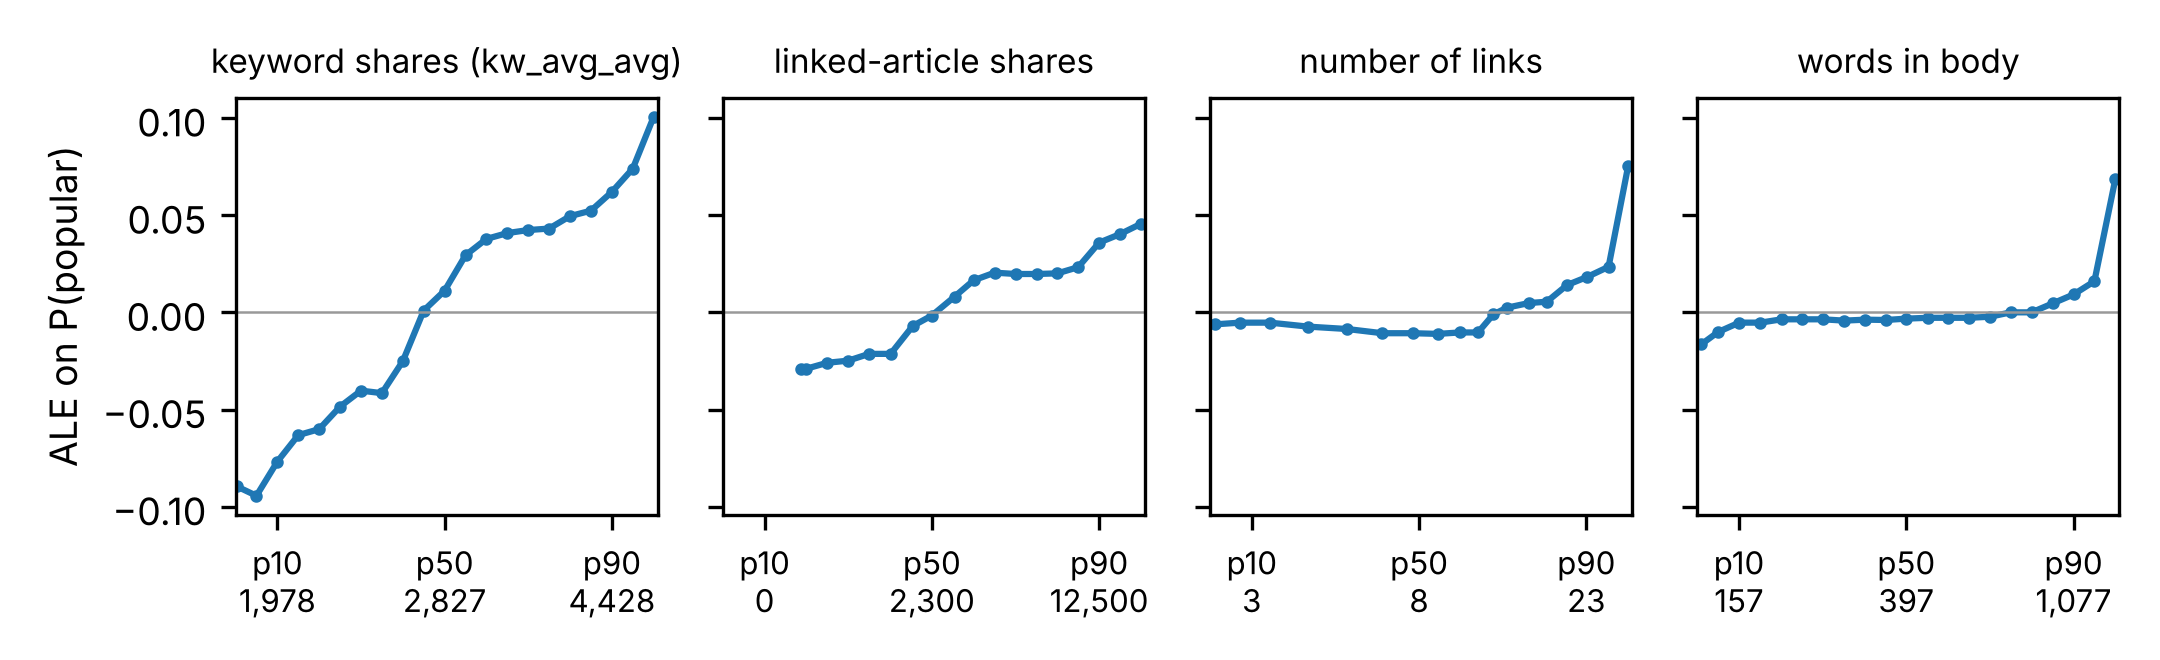
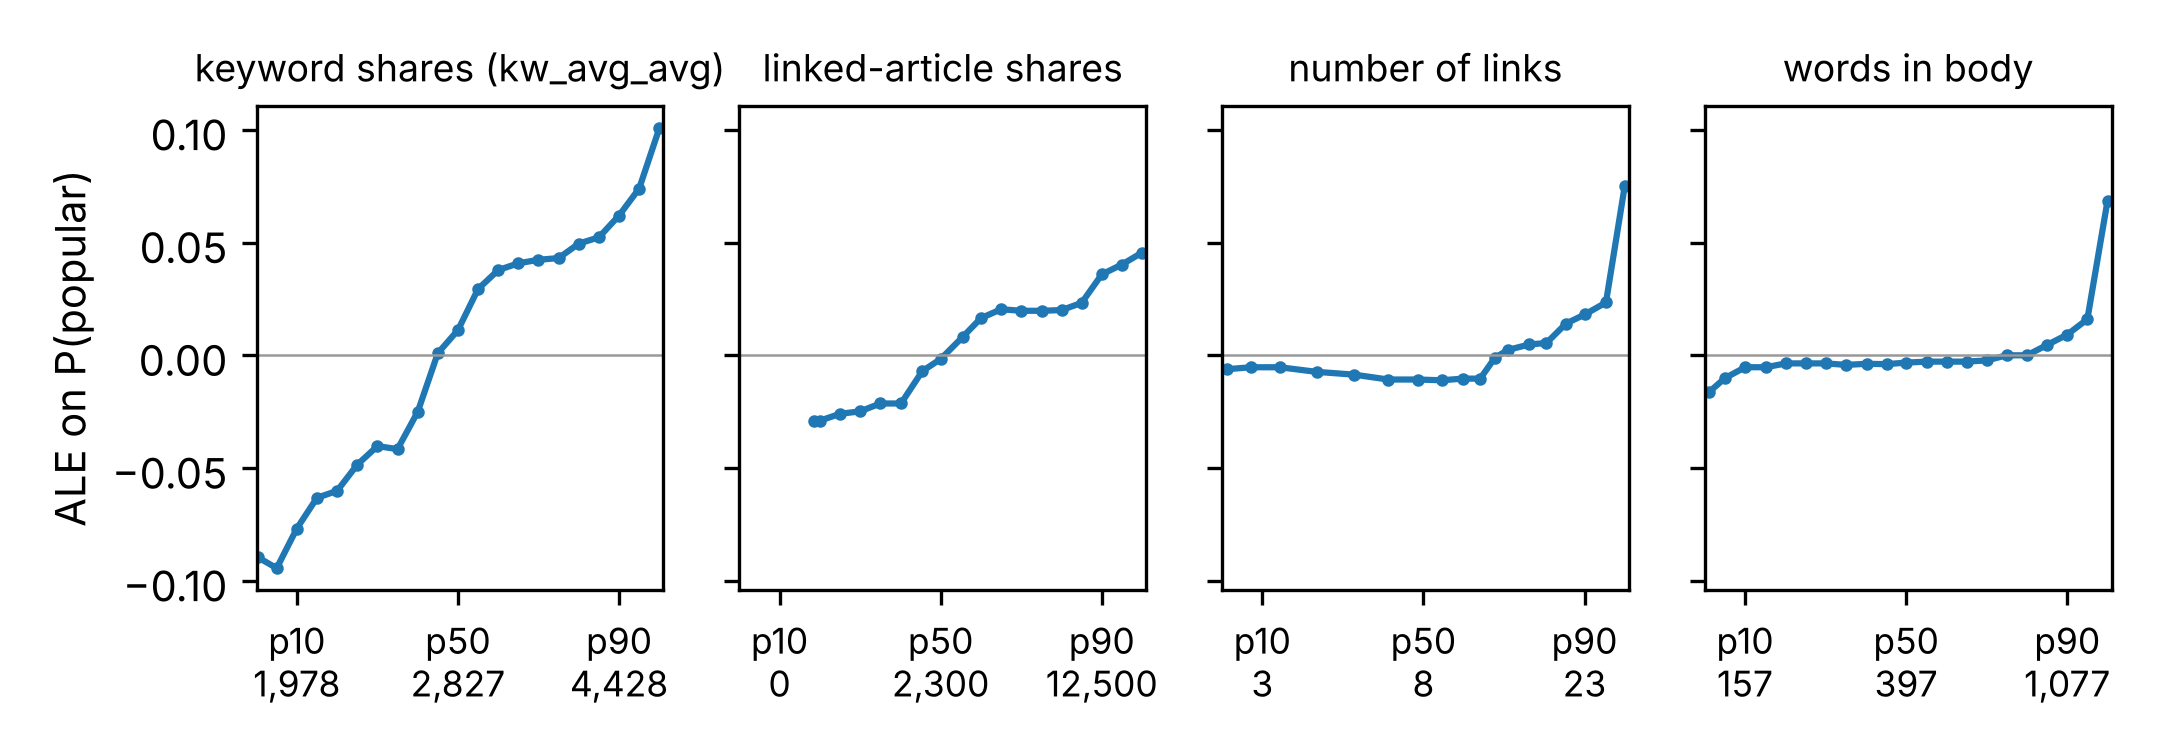
Review round 4: calibrated wording, per-fold sampling error, RQ1 phrasing, larger figures (#23)
- Abstract/RQ2: keyword statistics alone cost 0.016; gains "likely optimistic" instead of "upper bound"
- RQ1: period sd 0.017 vs weekly block-bootstrap SE 0.008 per fold (sd CI 0.010-0.049); staleness is an upper bound
- RQ1 reworded to match what can be identified; Related Work compressed; Fig 3/4 fonts enlarged

Claude-Session: https://claude.ai/code/session_01TCfNdN2Zn6ui1ME3kdmCGP

diff --git a/report/main.tex b/report/main.tex
@@ -19,11 +19,12 @@ Label Reliability, Temporal Drift and Point-in-Time Features in Online News Popu
 Online news popularity is usually predicted as a binary label (``at least 1{,}400 shares'') and evaluated
 on a random split. Using 39{,}643 Mashable articles from 2013--2014, we ask how far that set-up can be trusted,
 and report three findings. First, ranking quality survives a chronological split (ROC-AUC 0.74, with random
-forest and gradient boosting tied), but it varies far more between time periods than between random seeds;
-a later drop in AUC comes from harder articles, not from an outdated model, since retraining recovers only
+forest and gradient boosting tied), but it varies between time periods about twice as much as sampling
+error alone would explain; a later drop in AUC comes from harder articles, not from an outdated model, since retraining recovers only
 0.006 of it. Second, the strongest features, keyword statistics built from earlier articles' shares, use
 only earlier articles but take their share counts from the collection date, and a few of them act as a
-clock; they are worth 0.03 AUC and should be treated as an upper bound on usable signal. Third, what can be
+clock. Together with the self-reference statistics they are worth 0.03 AUC (keyword statistics alone
+0.016), and these gains are likely optimistic. Third, what can be
 achieved depends far more on the threshold than on the model: at the 95th percentile PR-AUC is 0.10, while
 a weekly shortlist of the top 5\% is still three times richer in viral articles than chance.
 \end{abstract}
@@ -58,8 +59,8 @@ predictive (topic, tone, unusualness) survive once the editorial channel is acco
 
 \paragraph{Research questions.}
 \begin{enumerate}
-  \item[RQ1] Do shares depend on article age, and how does performance change when models are
-             evaluated on articles published after the training period?
+  \item[RQ1] Can the label be used without an age correction, and how does performance change when
+             models are evaluated on articles published after the training period?
   \item[RQ2] Are the features derived from earlier articles' shares point-in-time, do they encode
              the publication date, and how much does performance depend on them?
   \item[RQ3] How do the popularity threshold, training-set size and regularisation strength
@@ -70,17 +71,12 @@ predictive (topic, tone, unusualness) survive once the editorial channel is acco
 % ------------------------------------------------------------------ 0.5 page
 \section{Related Work}
 Fernandes et al.\ \citep{fernandes2015} introduced the dataset and reached an AUC of 0.73 with a random
-forest evaluated on rolling time windows; we extend that idea with interval estimates and an analysis
-of what changes over time. Szabo and Huberman \citep{szabo2010} showed that early counts predict later
-popularity and that attention to news stories (on Digg) saturates within days; we rely on this external
-evidence because a single snapshot of share counts cannot establish saturation by itself (Section~\ref{sec:data}).
-Work on learning from streaming data \citep{yang2014wsdm,yang2014cikm}, where items arrive over time and
-labels are costly, motivated our insistence on evaluating only on articles published after the training data.
-Concept drift \citep{gama2014} distinguishes changes in the label distribution from changes in the inputs; we
-test both. Leakage \citep{kaufman2012} arises when a feature uses information unavailable at
-prediction time, which is why we examine the share-derived features explicitly. Finally, under
-class imbalance precision--recall curves are more informative than ROC curves \citep{saito2015},
-which matters once the threshold moves to the top percentiles.
+forest on rolling time windows; we add interval estimates and ask what changes over time. Attention to
+news stories saturates within days \citep{szabo2010}, external evidence we need because a single snapshot
+cannot show it (Section~\ref{sec:data}). Learning from streams of items whose labels are costly
+\citep{yang2014wsdm,yang2014cikm} motivated evaluating only on articles published after the training data.
+We test both kinds of concept drift \citep{gama2014}, check the share-derived features for leakage
+\citep{kaufman2012}, and use precision--recall measures where positives are rare \citep{saito2015}.
 
 % ------------------------------------------------------------------ 1 page
 \section{Data}
@@ -181,7 +177,7 @@ to the base rate, and PR-AUC, which is more informative when positives are rare
 95\% percentile bootstrap intervals \citep{efron1993} with 1,000 resamples. Because articles published in
 the same week share news events, Table~\ref{tab:main} and the RQ1 differences resample whole publication
 weeks (block bootstrap \citep{kunsch1989}); these intervals are about 1.4 times wider than article-level
-ones, which we keep for the secondary analyses. Differences between two models or feature sets are computed
+ones (which we keep for the secondary analyses), but rest on only 18 weekly blocks. Differences between two models or feature sets are computed
 on the \emph{same} resamples (paired bootstrap) or, across rolling folds, as paired per-fold differences with
 a $t$-interval. We call a difference \emph{detectable} only when its interval excludes zero. Association
 with channel as a confounder is tested with Mantel--Haenszel odds ratios \citep{mantel1959} and the
@@ -246,19 +242,20 @@ The \emph{label} is not stable over time: the monthly share of popular articles 
 and 68\% (both extremes in 2013; Fig.~\ref{fig:time}a) and is 47.9\% in the test block.
 
 Ranking quality is more robust. Random and chronological splits give the same HistGB ROC-AUC with default
-settings (0.735 vs.\ 0.737). Across time periods, however, it varies much more than across random seeds:
-training on a fixed number of the most recent articles (15{,}857) and testing on each of the five
-rolling-origin blocks gives AUCs from 0.704 to 0.744 (sd 0.017), against an sd of 0.002 over five
-random-split seeds and about 0.008 for the sampling error of a single test block. Error bars from random
-splits therefore understate the uncertainty that matters when a model is deployed.
+settings (0.735 vs.\ 0.737). Across time periods, however, it varies clearly more than sampling error explains: training on a fixed
+number of the most recent articles (15{,}857) and testing on each of the five rolling-origin blocks gives AUCs
+from 0.704 to 0.744 (sd 0.017; with five folds its 95\% interval is 0.010--0.049), while the weekly
+block-bootstrap standard error of a single block is 0.008. Error bars from one test set, let alone from
+random-split seeds (sd 0.002), therefore understate the uncertainty that matters when a model is deployed.
 
 A model trained up to 25 June 2014 ranks articles from the next three months (Jul--Sep, which include the
 validation block) better than those from Oct--Dec: 0.753 vs.\ 0.722, a difference of 0.030. This is
 \emph{not} mainly staleness. Moving the training cutoff forward to 1 August, 1 September and 1 October 2014,
 and always testing on Oct--Dec, raises HistGB only from 0.722 to 0.723, 0.726 and 0.729
 (Fig.~\ref{fig:time}c): a fully up-to-date model gains 0.006 [0.003, 0.010] (paired weekly block bootstrap;
-logistic regression 0.003 [0.001, 0.005]). The remaining 0.024 [0.005, 0.045] is difficulty: late-2014
-articles are harder to rank for any model. Threshold-dependent metrics suffer more: models keep predicting
+logistic regression 0.003 [0.001, 0.005]). Because the training set also grows (27{,}772 to 33{,}788 articles)
+and HistGB is still improving at that size, 0.006 is an upper bound on staleness. The remaining
+0.024 [0.005, 0.045] is difficulty: late-2014 articles are harder to rank for any model. Threshold-dependent metrics suffer more: models keep predicting
 49--53\% positives while the true rate is 47--49\%.
 
 Two remedies did \emph{not} help. Rescaling predicted probabilities to the most recent known base rate
@@ -276,9 +273,9 @@ articles, \texttt{kw\_max\_max} equals the largest share count of any article pu
 it jumps the day after each new record article (Fig.~\ref{fig:time}b). Their \emph{values}, however, are the
 share counts measured at collection (January 2015): the day after a record article appears, its final
 843{,}300 shares are already in the statistic, a number that could not have been known then. The features
-are therefore only approximately available at publication. The bias favours them: in deployment the same
-statistics would be computed from incomplete counts of recent articles, so the gains reported below are an
-upper bound on their usable value.
+are therefore only approximately available at publication. In deployment the same statistics would be computed
+from incomplete counts of recent articles, which would usually make them noisier, so the gains reported
+below are likely optimistic.
 
 Three keyword columns mostly measure how large the archive was and thus encode the date
 (\texttt{kw\_min\_min}: $\rho=-0.88$ with publication date; $-1$ for 8.5\% of 2013 articles but 99.9\% of 2014
@@ -287,9 +284,9 @@ articles (adversarial AUC 0.958 with all features, 0.940 without them, 0.810 wit
 they are constant inside the test block, and removing them costs nothing (0.002 [$-0.001$, 0.005]).
 
 The predictive value lies in the non-clock statistics, i.e.\ in how popular an article's keywords have been.
-With the tuned models of Table~\ref{tab:main}, removing all share-derived features costs HistGB 0.034
+Removing only the \texttt{kw\_*} features costs default HistGB 0.016 [0.010, 0.021] on the test block. With the tuned models of Table~\ref{tab:main}, removing all share-derived features costs HistGB 0.034
 [0.027, 0.040] and the random forest 0.028 [0.022, 0.034]; without them the random forest is ahead of
-HistGB by a small but detectable 0.005. Over the five rolling folds (Fig.~\ref{fig:time}d, default HistGB)
+HistGB by 0.005 [0.001, 0.009], detectable on this test block but small enough that it may not hold in other periods. Over the five rolling folds (Fig.~\ref{fig:time}d, default HistGB)
 the combined share-derived group is the most valuable (0.027); on its own, \texttt{kw\_*} (0.011) is on a par
 with weekday (0.013), followed by self-reference and channel (0.008) and content (0.005), while removing the
 five LDA topics or the 16 sentiment features makes no detectable difference.
@@ -391,8 +388,9 @@ the loosest setting.
 \paragraph{What this means for work on the dataset.} The headline AUC of about 0.74 survives a chronological
 split, but it rests partly on keyword statistics whose values were measured after publication, so it is an
 optimistic estimate of what a deployed model would achieve. Three further caveats should accompany it.
-Uncertainty must be estimated over time, not over random seeds: period-to-period variation (sd 0.017) dwarfs
-seed variation, and a model comparison of 0.001--0.005 AUC is not a robust result. Threshold-dependent metrics
+Uncertainty must be estimated over time, not over random seeds: period-to-period variation (sd 0.017) is
+about twice the sampling error of one test block, so a model comparison of a few thousandths of AUC, even when
+detectable on one block, is not a robust result. Threshold-dependent metrics
 such as accuracy and F1 are fragile because the base rate drifts, and no correction based on past rates can
 anticipate that. And at high thresholds, which is what editors care about, PR-AUC or shortlist precision
 rather than ROC-AUC should be reported, since ranking quality and practical precision diverge.
@@ -404,7 +402,7 @@ Recency weighting, a natural idea under drift, does not help the best model.
 
 \paragraph{Advice for future work on this dataset.} (i) Split chronologically and report intervals
 over time periods, not seeds. (ii) Report PR-AUC or precision at a fixed budget alongside ROC-AUC, and state
-the threshold. (iii) Treat the keyword statistics as an upper bound, drop the three clock columns, which cost nothing
+the threshold. (iii) Treat gains from the keyword statistics as likely optimistic, drop the three clock columns, which cost nothing
 and otherwise let a model recognise the period, and ideally recompute the statistics from lagged counts. (iv) Do not expect retraining or recency weighting to fix
 late-2014 performance: the drop comes from harder articles. (v) Before concluding that unusual or
 negative-tone articles behave differently, adjust for channel and check that the effect is homogeneous.
@@ -418,10 +416,10 @@ are associational: channel adjustment removes one obvious confounder, not all of
 
 \section{Conclusion}
 The popularity label drifts over time; models still rank new articles well, and the lower AUC in late 2014
-reflects harder articles rather than an outdated model, while period-to-period variation is far larger than
-random-split error bars suggest (RQ1). The share-derived keyword features use only earlier articles but
-carry share counts from the collection date; they hold most of the signal and should be read as an upper
-bound, and a few of them merely act as a clock (RQ2). The threshold changes what can be achieved far more
+reflects harder articles rather than an outdated model, while period-to-period variation is clearly larger than
+single-test-set error bars suggest (RQ1). The share-derived keyword features use only earlier articles but
+carry share counts from the collection date; they hold most of the signal, their gains are likely
+optimistic, and a few of them merely act as a clock (RQ2). The threshold changes what can be achieved far more
 than the choice of model, and regularisation matters only for small training sets (RQ3). Topic/sentiment
 clusters mainly recover editorial channels, and the negative-tone effect is real in some channels but absent
 in others (RQ4).

diff --git a/scripts/fig_report_results.py b/scripts/fig_report_results.py
@@ -88,19 +88,19 @@ def fig2():
 
 
 def fig3():
-    plt.rcParams.update({"font.size": 9, "axes.titlesize": 9.5})
+    plt.rcParams.update({"font.size": 10, "axes.titlesize": 10.5})
     e4 = pd.read_csv(TAB / "e4_threshold.csv")
     e5 = pd.read_csv(TAB / "e5_learning_curve.csv")
     e6 = pd.read_csv(TAB / "e6_logreg_C.csv")
-    fig, (a, b, c) = plt.subplots(1, 3, figsize=(7.2, 2.7))
+    fig, (a, b, c) = plt.subplots(1, 3, figsize=(7.2, 2.9))
     s = e4[(e4.features == "all") & (e4.model == "hgb")]
     q = s["quantile"] * 100
     a.plot(q, s.roc_auc, marker="o", ms=3, color="C0", label="ROC-AUC")
     a.fill_between(q, s.auc_lo, s.auc_hi, color="C0", alpha=0.15)
     a.plot(q, s.pr_auc, marker="s", ms=3, color="0.3", label="PR-AUC")
     a.plot(q, s.pos_rate, ls=":", color="0.55", label="positive rate")
-    a.set_xticks([50, 75, 90, 95]); a.set_xlabel("threshold percentile"); a.set_ylim(0, 0.8)
-    a.legend(fontsize=7.5, loc="lower left"); a.set_title("(a) threshold (HistGB)")
+    a.set_xticks([50, 75, 95]); a.set_xlabel("threshold percentile"); a.set_ylim(0, 0.8)
+    a.legend(fontsize=8, loc="lower left"); a.set_title("(a) threshold (HistGB)")
     cols = {"logreg": "0.55", "knn": "C2", "rf": "C1", "hgb": "C0"}
     names = {"logreg": "LogReg", "knn": "kNN", "rf": "RF", "hgb": "HistGB"}
     for m in ["logreg", "knn", "rf", "hgb"]:
@@ -108,12 +108,12 @@ def fig3():
         b.errorbar(d.index, d["mean"], yerr=d["std"].fillna(0), marker="o", ms=2.5, capsize=1.5,
                    color=cols[m], label=names[m])
     b.set_xscale("log"); b.set_xlabel("training articles"); b.set_ylabel("test ROC-AUC")
-    b.legend(fontsize=7.5, loc="lower right"); b.set_title("(b) learning curves")
+    b.legend(fontsize=8, loc="lower right"); b.set_title("(b) learning curves")
     for size, ls_, lab in [("1000", "-", "1,000 articles"), ("full", "--", "27,750 articles")]:
         d = e6[(e6.train_size == size) & (e6.penalty == "l2")]
         c.plot(d.C, d.val_auc, ls=ls_, marker="o", ms=2.5, color="C0", label=lab)
-    c.set_xscale("log"); c.set_xlabel("C (smaller = stronger L2 penalty)"); c.set_ylabel("validation ROC-AUC")
-    c.legend(fontsize=7.5, loc="lower left"); c.set_title("(c) regularisation (LogReg)")
+    c.set_xscale("log"); c.set_xlabel("C (smaller = stronger penalty)"); c.set_ylabel("validation ROC-AUC")
+    c.legend(fontsize=8, loc="lower left"); c.set_title("(c) regularisation (LogReg)")
     fig.tight_layout(); fig.savefig(FIG / "fig3_threshold_size_reg.png", dpi=300)
 
 

diff --git a/scripts/e1b_staleness.py b/scripts/e1b_staleness.py
@@ -46,7 +46,7 @@ def window(dates, lo, hi):
     return np.where((dates >= pd.Timestamp(lo)) & (dates < pd.Timestamp(hi)))[0]
 
 
-def sliding_window(X, y, n, min_train=0.4, n_folds=5):
+def sliding_window(X, y, n, week, min_train=0.4, n_folds=5):
     """Same five test blocks as the expanding rolling-origin folds of E1, but every model is
     trained on a FIXED number of the most recent articles (n * min_train), so fold-to-fold
     variation is not confounded with growing training size."""
@@ -57,7 +57,15 @@ def sliding_window(X, y, n, min_train=0.4, n_folds=5):
         win = tr[-size:]
         for m in MODELS:
             p = fit(get_model(m, 0), X[win], y[win]).predict_proba(X[te])[:, 1]
-            rows.append({"fold": k, "model": m, "n_train": len(win), "auc": roc_auc_score(y[te], p)})
+            # sampling error of this single test block: sd of a weekly block bootstrap
+            rng = np.random.default_rng(k)
+            boots = []
+            for _ in range(N_BOOT):
+                i = _resample(rng, len(te), week[te])
+                boots.append(roc_auc_score(y[te][i], p[i]))
+            rows.append({"fold": k, "model": m, "n_train": len(win), "n_test": len(te),
+                         "n_weeks": len(np.unique(week[te])), "auc": roc_auc_score(y[te], p),
+                         "block_se": float(np.std(boots))})
     return pd.DataFrame(rows)
 
 
@@ -100,10 +108,12 @@ def main():
     dec.to_csv(TAB / "e1b_decomposition.csv", index=False)
     print(dec.round(3).to_string(index=False))
 
-    sw = sliding_window(X, y, len(df))
+    sw = sliding_window(X, y, len(df), week)
     sw.to_csv(TAB / "e1b_sliding_window.csv", index=False)
     print(sw.pivot(index="fold", columns="model", values="auc").round(3))
     print("sd across fixed-size folds:", sw.groupby("model").auc.std().round(4).to_dict())
+    print("mean block-bootstrap SE of one fold:", sw.groupby("model").block_se.mean().round(4).to_dict(),
+          "weeks per fold:", sw.n_weeks.unique())
 
     fig, ax = plt.subplots(figsize=(3.4, 2.3))
     for m, col in zip(MODELS, ["C0", "0.45"]):

diff --git a/scripts/e8_ale.py b/scripts/e8_ale.py
@@ -58,8 +58,8 @@ def main():
     y = make_label(df.shares, 1400)
     model = fit(get_model("hgb", 0), X[tr], y[tr])
     rows = []
-    plt.rcParams.update({"font.size": 9})
-    fig, axes = plt.subplots(1, 4, figsize=(7.2, 2.2), sharey=True)
+    plt.rcParams.update({"font.size": 10})
+    fig, axes = plt.subplots(1, 4, figsize=(7.2, 2.5), sharey=True)
     for ax, (f, name) in zip(axes, FEATURES.items()):
         edges, eff = ale(model, X[tr], cols.index(f))
         rows += [{"feature": f, "x": e, "ale": a} for e, a in zip(edges, eff)]
@@ -69,9 +69,9 @@ def main():
         ax.axhline(0, color="0.6", lw=0.6)
         ticks = [10, 50, 90]
         vals = np.quantile(X[tr, cols.index(f)], np.array(ticks) / 100)
-        ax.set_xticks(ticks, [f"p{t}\n{v:,.0f}" for t, v in zip(ticks, vals)], fontsize=7.5)
+        ax.set_xticks(ticks, [f"p{t}\n{v:,.0f}" for t, v in zip(ticks, vals)], fontsize=8.5)
         ax.set_xlim(0, 101)
-        ax.set_title(name, fontsize=8)
+        ax.set_title(name, fontsize=9)
         print(f, "range of effect:", round(eff.max() - eff.min(), 3))
     axes[0].set_ylabel("ALE on P(popular)")
     fig.tight_layout(); fig.savefig(FIG / "e8_ale.png", dpi=300)

diff --git a/docs/TASKS.md b/docs/TASKS.md
@@ -54,6 +54,7 @@ Review notes (2026-11-12): https://claude.ai/artifact/UnYjVnCpepjSA6yGzj5XMr —
 - [x] Clean-environment reproduction (2026-11-12): fresh clone + venv (numpy 2.5.4, pandas 3.1.1, scikit-learn 1.9.1), `./run_all.sh` in 26 min, all 44 tables match main (max abs diff 1.2e-10)
 - [x] Build the submission zip: `./make_submission.sh` -> `dist/group3_news_popularity.zip` (report.pdf + code/, no data)
 - [x] Review round 3 (adversarial grading, items 2–8): age not identifiable, kw values from collection date (upper bound), weekly block bootstrap, sliding-window variance, validation-chosen reference model, wider kNN grid, HistGB temporal early stopping, Breslow–Day + per-channel effects, all Isolation Forest settings, method citations, VCPToolBox footnote, figure fonts, abstract rewrite; 8 pages
+- [x] Review round 4 fixes (kw alone 0.016, 'likely optimistic', per-fold block SE 0.008 vs period sd 0.017, staleness as upper bound, RQ1 wording, Related Work compressed, larger Fig 3/4 fonts)
 - [ ] Prose tightening pass: the report is at exactly 8 pages; cut ~0.3 page (repetition between Results and Discussion, long captions) so later additions fit
 - [ ] Seed robustness of the main comparison: refit RF and HistGB with 5 seeds, report the spread of test AUC next to Table 2 (one sentence + table column or footnote)
 - [ ] Calibration under drift: reliability curve of HistGB on validation vs test blocks (Brier, ECE); one sentence in RQ1 if it fits, else docs only

diff --git a/docs/results/e1_drift.md b/docs/results/e1_drift.md
@@ -81,3 +81,7 @@ earlier article:
 - Age vs shares: all articles were collected on the same day, so age and publication date are
   one-to-one; the flat age curve cannot by itself show saturation. Report relies on Szabo &
   Huberman (2010) for that.
+- Sampling error of one sliding-window test block (weekly block bootstrap, 11–16 weeks per block):
+  SE 0.008 (HistGB and LogReg). Period sd 0.017 has a 95% interval of 0.010–0.049 with 5 folds, so
+  "clearly larger than sampling error (about twice)", not "ten times".
+- Staleness 0.006 is an upper bound: training size also grows from 27,772 to 33,788 as the cutoff moves.
